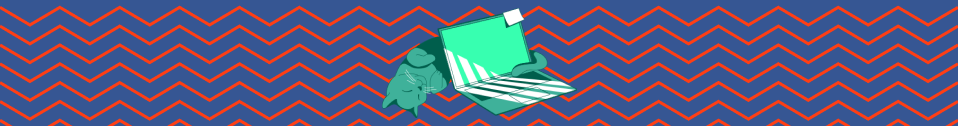
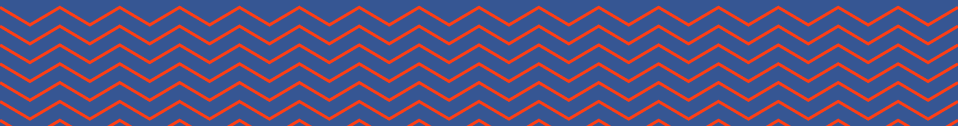
arrumando erros e trocando imagem

Changed region(s): [[0.3935, 0.0714, 0.6054, 0.9286]]

diff --git a/index.html b/index.html
@@ -10,9 +10,9 @@
 <body>
     <header>
         <div class="container">
-            <img class="avatar" src="https://via.placeholder.com/180x180" alt=".">
-            <h1 class="name">Isabela Ramos</h1>
-            <h2 class="username">@isabelaramoss</h2>
+            <img id="avatar" src="https://via.placeholder.com/180x180" alt=".">
+            <h1 id="name"></h1>
+            <h2 id="username"></h2>
             <ul class="numbers">
                 <li class="numbers-item">
                     <h4>Repositórios</h4>

diff --git a/main.js b/main.js
@@ -17,7 +17,7 @@ document.addEventListener('DOMContentLoaded', function(){
       usernameElement.innerText = json.login;
       followingElement.innerText = json.following;
       followersElement.innerText = json.followers;
-      repositoriesElement = json.public_repos;
+      repositoriesElement.innerHTML = json.public_repos;
       linkElement.href = json.html_url;
     })
 })

diff --git a/main.css b/main.css
@@ -34,18 +34,18 @@ header .container {
     bottom: -50%;
 }
 
-.avatar {
+#avatar {
     border-radius: 50%;
     margin-bottom: 24px;
     width: 180px;
     height: 180px;
 }
 
-.name {
+#name {
     font-size: 2em;
 }
 
-.username {
+#username {
     margin: 16px 0 32px;
     font-size: 1.1em;
 }
